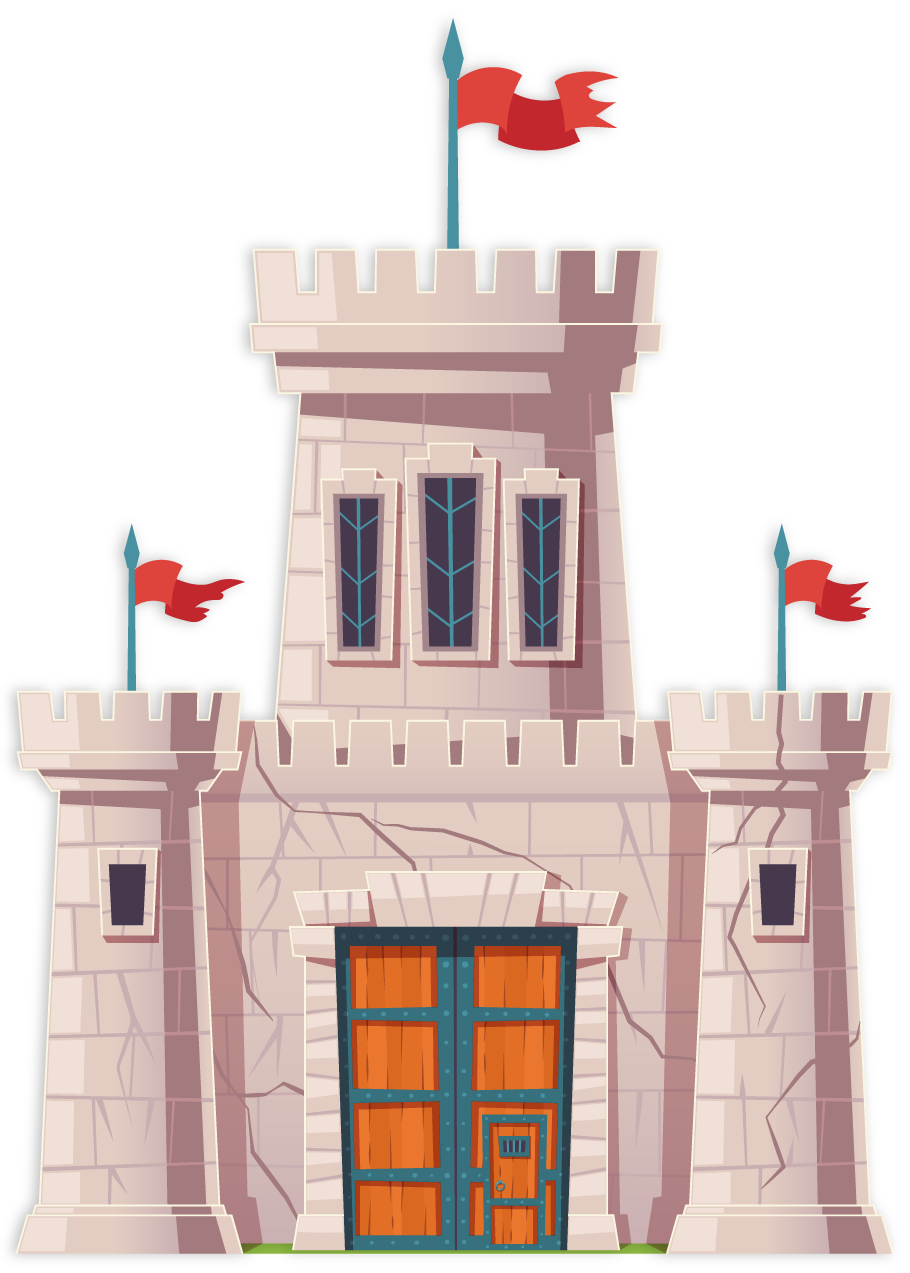
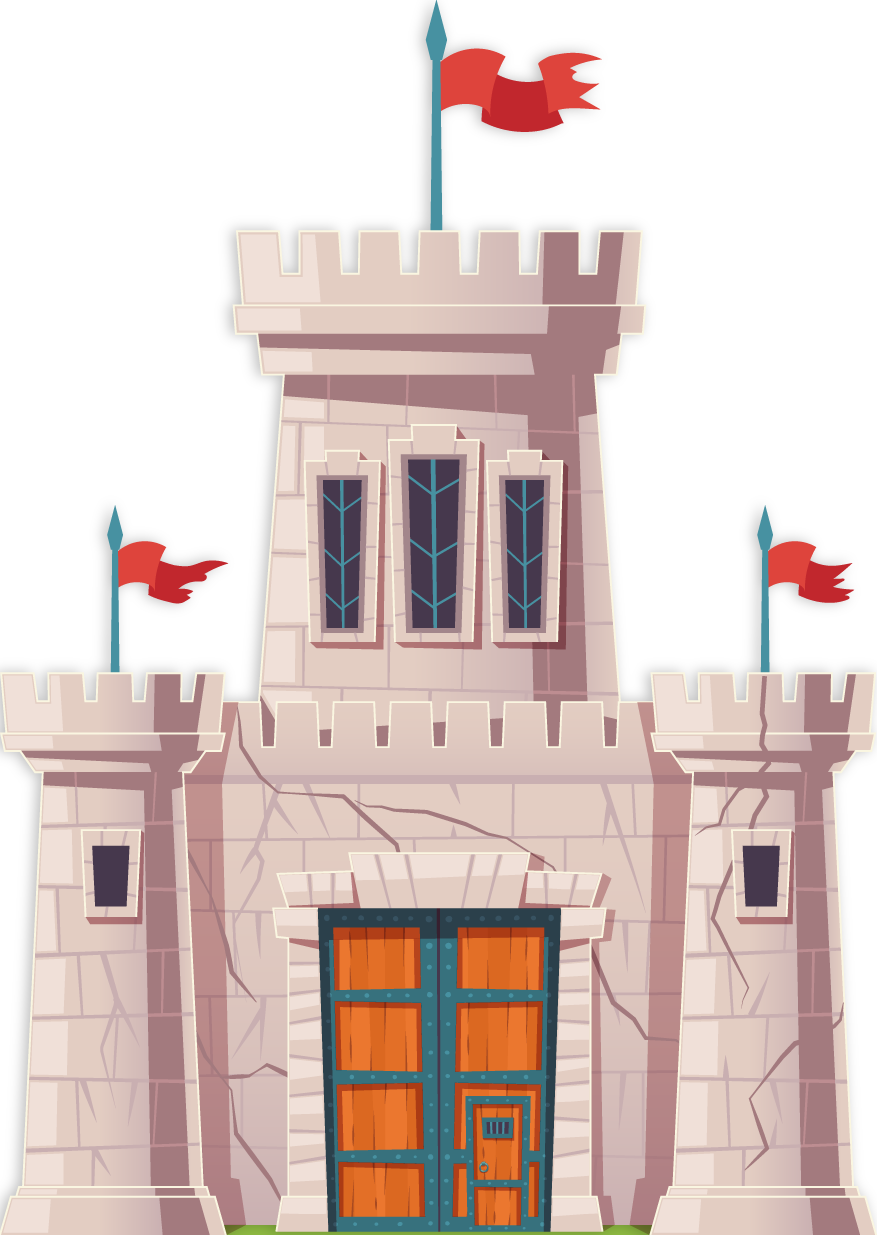
update index.css

Changed region(s): [[0.0, 0.1846, 1.0, 1.0], [0.4618, 0.0, 0.6773, 0.1231]]

diff --git a/styles/index.css b/styles/index.css
@@ -5,21 +5,23 @@
   background-position: center;
   background-repeat: no-repeat;
   background-size: cover;
-
+  position: relative;
+  width: 100%;
   font-family: 'Open Sans', sans-serif;
 }
 
 .castle {
   display: flex;
   justify-content: center;
-  align-items: center;
+  align-items: flex-end;
   position: absolute;
-  bottom: -5725px;
+  bottom: 0px;
+  height: 100%;
   width: 100%;
 }
 
 .castle img {
-  width: 29%;
+  width: 550px;
 }
 
 canvas {
